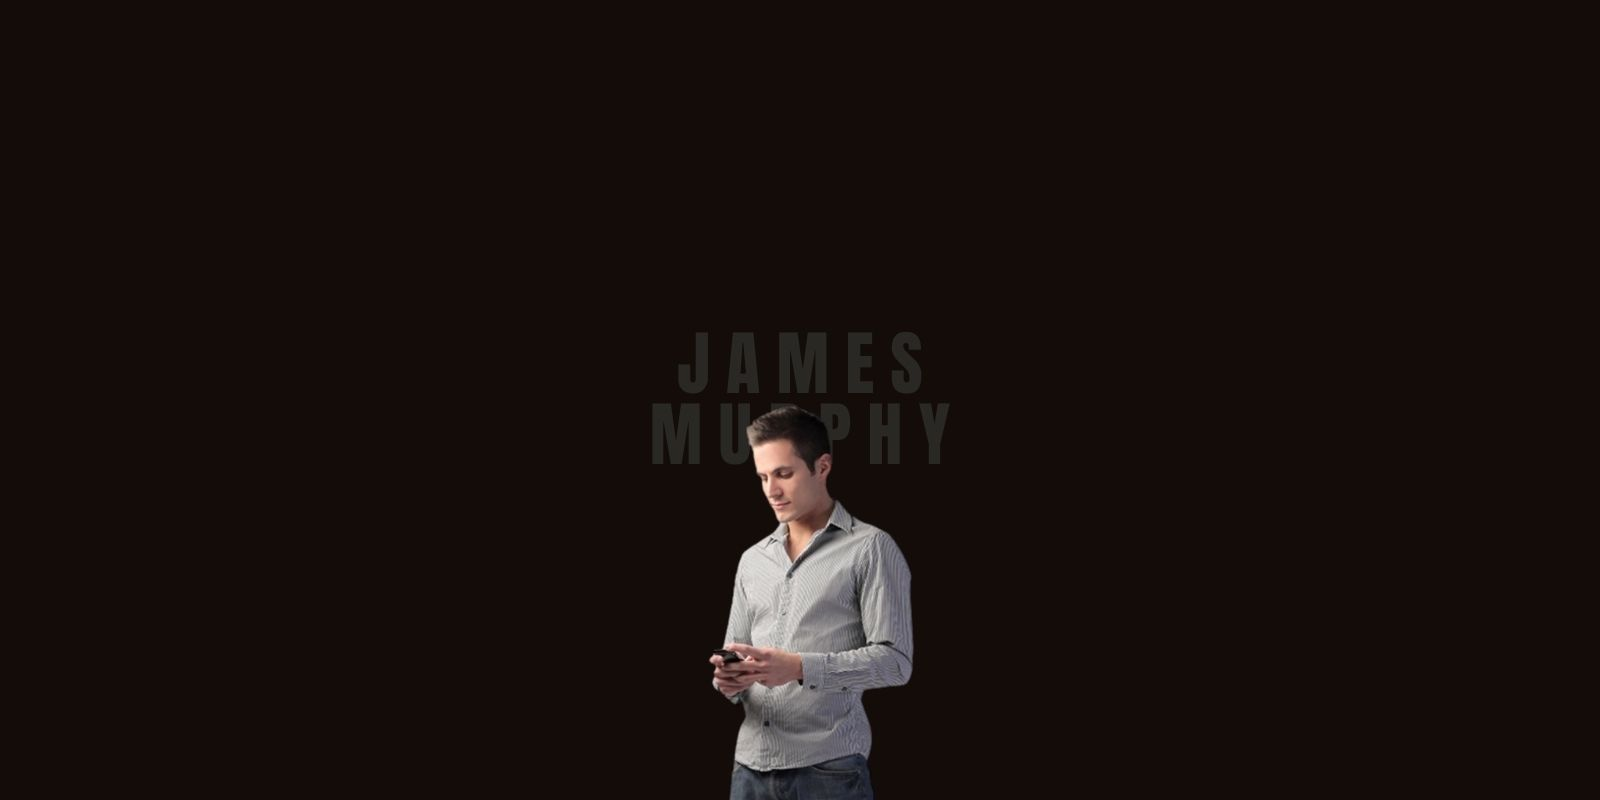
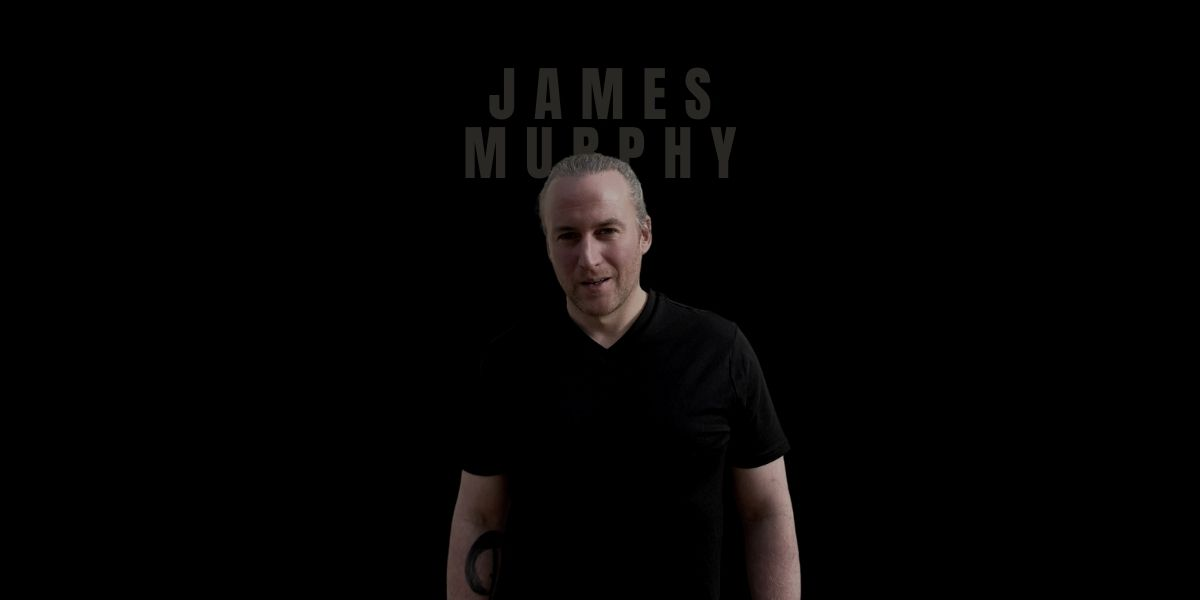
Add nav bar styling

Changed region(s): [[0.37, 0.09, 0.6167, 1.0], [0.6167, 0.75, 0.6783, 1.0]]

diff --git a/assets/css/style.css b/assets/css/style.css
@@ -246,13 +246,13 @@ nav {
   width: auto;
   object-fit: contain;
   overflow: hidden;
-  background: url(../images/jm-hero2.png) no-repeat center center;
+  background: url(../images/1.jpg) no-repeat center center;
 }
 
 @media screen and (max-width: 968px) {
   
   #hero-image {
-    background: url(../images/jm-hero2-mobile.png) no-repeat center center;
+    background: url(../images/2.jpg) no-repeat center center;
   }
 }
 
@@ -1034,9 +1034,9 @@ Nav Dropdown
   display: block;
   color: white;
   text-align: center;
-  padding: 1rem;
   text-decoration: none;
   font-size: 1rem;
+  margin-right: 1rem;
   font-family: var(--ff-secondary);
   text-transform: capitalize;
 }
@@ -1067,11 +1067,10 @@ Nav Dropdown
   border: none;
   outline: none;
   color: white;
-  padding: 1rem;
   background-color: inherit;
   font-family: inherit;
-  margin: 0;
   font-size: 1rem;
+  margin-right: 1rem;
   font-family: var(--ff-secondary);
   text-transform: capitalize;
 }
@@ -1096,7 +1095,7 @@ Nav Dropdown
   text-transform: capitalize;
 }
 
-.topnav a:hover, .dropdown:hover .dropbtn {
+.topnav a:hover, .dropdown:hover .dropbtn:hover {
   
   color: yellow;
  
@@ -1112,7 +1111,11 @@ Nav Dropdown
 }
 
 @media screen and (max-width: 900px) {
-  .topnav a:not(:first-child), .dropdown .dropbtn {
+  .topnav a:first-child, .dropdown .dropbtn {
+    display: none;
+  }
+
+  .topnav a {
     display: none;
   }
   .topnav a.icon {

diff --git a/index.html b/index.html
@@ -27,7 +27,7 @@
                 <!-- links -->
                 <div class="topnav" id="myTopnav">
 
-                    <a href="about.html" class="active">About</a>
+                    <a href="about.html">About</a>
                    
 
 
@@ -68,9 +68,6 @@
                             <a href="#">Public Speaking</a>
                         </div>
                     </div> -->
-
-                    
-                        <a href="#contact.html">Playbook</a>
                         
                     <a href="#contact.html">Contact</a>
                    
